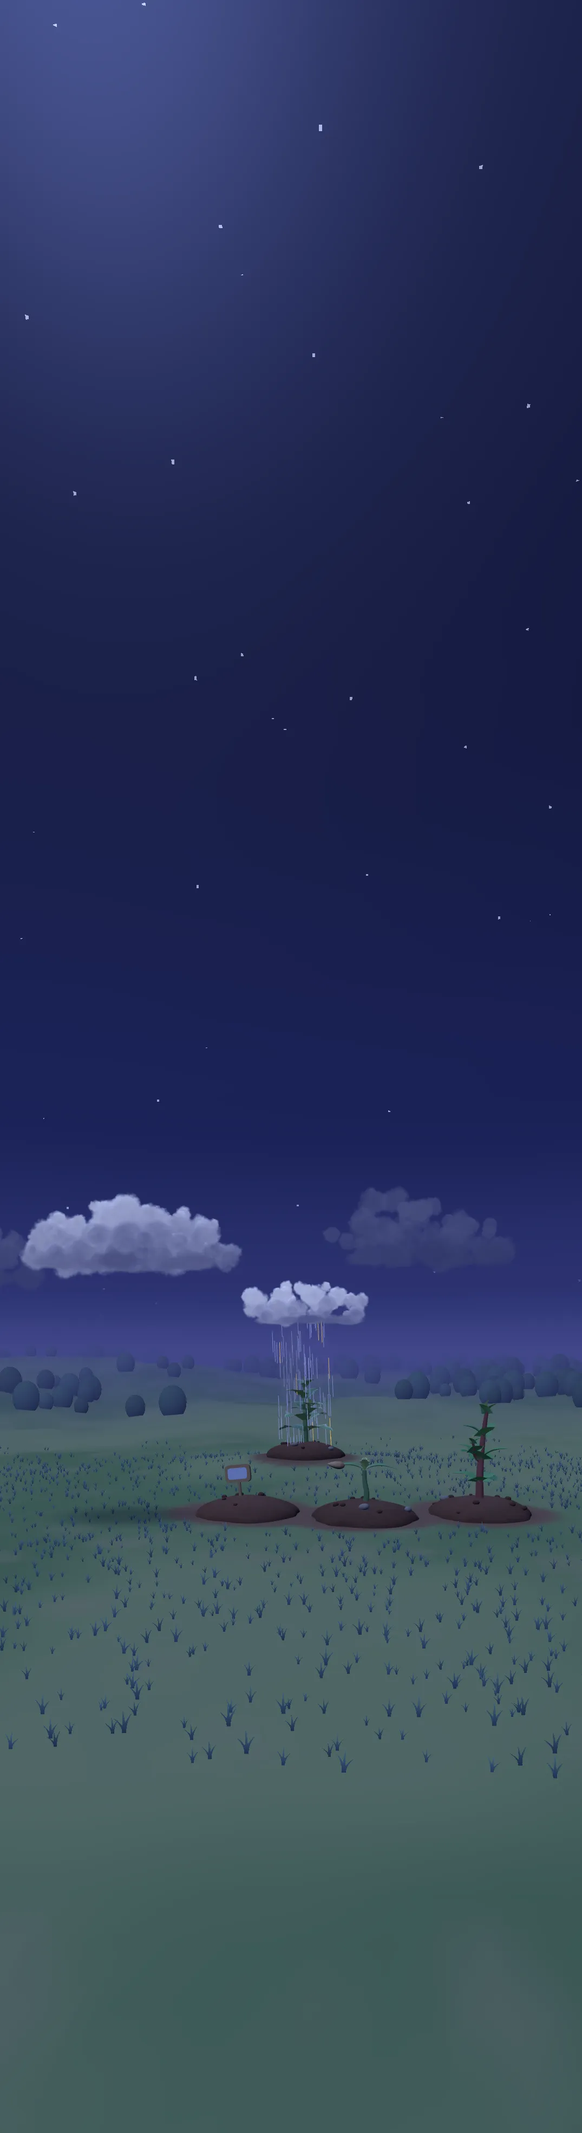
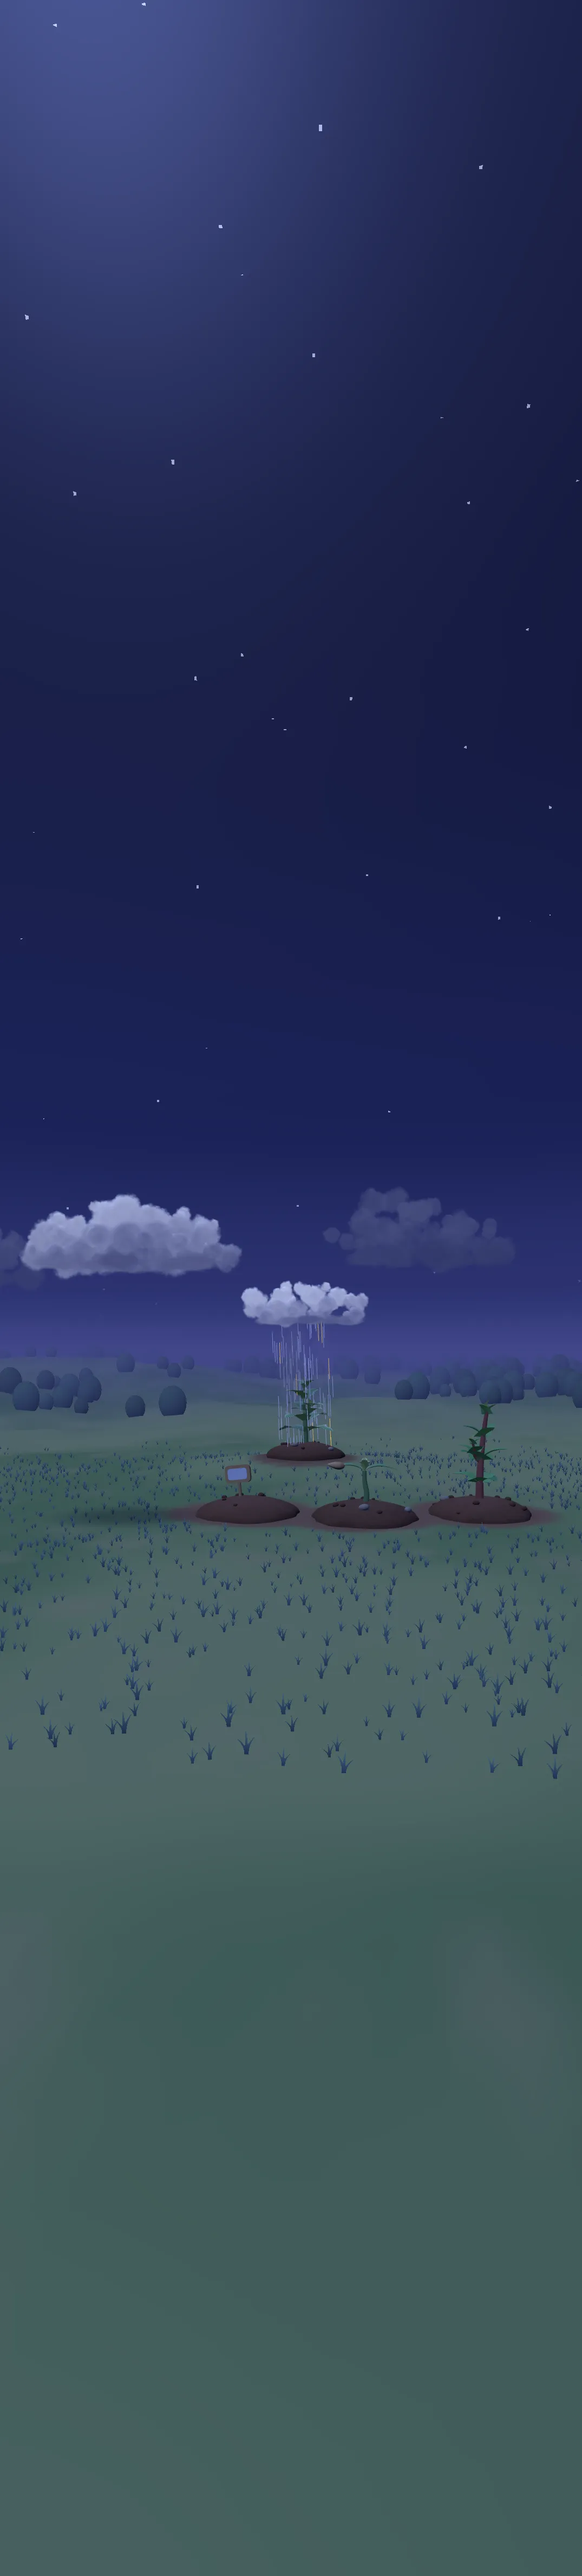
On a phone the garden scrolls with the page, and doesn't flash when the cloud is taken up
Two things seen in a screen recording on an iPhone:

Taking up the cloud, or letting it go, blanked the garden for a frame.
The line under it went from a plot's note (two or three lines) to the
hint (one), or back, which on a phone changes how tall the landing is,
and so the canvas. Sizing a WebGL canvas wipes it, and the scene, when
running, only drew again on the next frame, after the page had been
shown with it blank. Now the canvas is only sized when its size
changes, and is drawn again at once when it is. On a phone the line
under the garden is also kept as tall as a plot's note, so the board
under it doesn't move up and down either.

Scrolling, the garden snapped up or down by 40 to 50 pixels once the
page had stopped. On a touchscreen it sank by a scroll-linked
animation, which started where the window's height put it, and a
phone's browser changes that height as its toolbar comes and goes. Now
on a touchscreen the garden just scrolls with the page (on a desktop it
still sinks, by the camera, as before), and the meadow left for it to
sink into is shorter there.

The stills reach further: the earlier measurements of how far the
backdrop reaches were taken before it was laid out. Measured again
afterwards, a small phone shows 22 units of meadow under the garden
with the still's notes under it, and a tall tablet 22 of sky. `npm run
still -- close` now makes one framing's stills alone.

Claude-Session: https://claude.ai/code/session_014phnNrfKs4tNcruJrNwxfT

diff --git a/src/landing/garden.js b/src/landing/garden.js
@@ -10,8 +10,7 @@
 // the pitch, and the figure is the part of it kept clear for the garden. This file tells the
 // scene where that is. As the page is scrolled the garden doesn't keep up with it: it sinks
 // into the meadow left between it and the line of words under it, the hills behind it sink
-// less, and the sky not at all. On a touchscreen the whole backdrop sinks together instead,
-// so it can keep up with a finger (see scroll(), below).
+// less, and the sky not at all. On a touchscreen it scrolls with the page (see scroll(), below).
 //
 // The scene itself is three.js (./garden-scene.js), so it's fetched only when the landing is
 // on screen. Until it's there, a still of it is (./still/, taken by scripts/still.mjs), scaled
@@ -74,12 +73,6 @@ export function mount(figure){
     // garden can sink as far as that.
     const room = parseFloat(getComputedStyle(figure).rowGap) || 0;
     deep = Math.max(0, room - 8);
-    // How far the page is scrolled when the garden starts and stops sinking, for the stylesheet
-    // to sink it by on a touchscreen (see scroll()).
-    const from = Math.max(0, base.getBoundingClientRect().top + scrollY - innerHeight + 52);
-    figure.style.setProperty('--sink', deep + 'px');
-    figure.style.setProperty('--sink-from', Math.round(from) + 'px');
-    figure.style.setProperty('--sink-to', Math.round(from + deep / SINK) + 'px');
     frame = { x: x0, y: f.top - at.top, w: x1 - x0, h: base.getBoundingClientRect().top - room - f.top, close };
     scene?.setFrame(frame);
     // The still, scaled about the point the camera looks at, and moved to where the scene draws it.
@@ -100,25 +93,25 @@ export function mount(figure){
     if (to !== stood) { stood = to; land.style.setProperty('--stand', to + 'px'); }
     scroll();
   }
-  // Nothing sinks until the hint under the garden is on screen, so on a phone, where the
-  // garden starts below the first screenful, the whole of it is seen first. Its labels go
-  // down with it, so it can be played with all the way. Anyone who's asked for less motion
-  // gets a garden that scrolls away like the rest of the page.
+  // Nothing sinks until the hint under the garden is on screen, so where the garden starts
+  // below the first screenful, the whole of it is seen first. Its labels go down with it, so
+  // it can be played with all the way. Anyone who's asked for less motion gets a garden that
+  // scrolls away like the rest of the page.
   //
   // Here the camera rises to sink it, once each frame is drawn. That's only smooth where the
   // page waits for the frame before it moves. A touchscreen doesn't: the page goes with the
   // finger whether or not the frame is ready. A late frame leaves the garden carried up with
   // the page, and it drops back when the frame comes, so it judders. So on a touchscreen the
-  // camera stays put, and ./landing.css sinks the whole picture with an animation that the
-  // browser runs in step with the scrolling. Where a browser can't do that, the garden
-  // doesn't sink there at all.
+  // garden doesn't sink at all. (An animation the browser runs in step with the scrolling was
+  // tried, and it jumped on a phone: where it starts depends on how tall the window is, and a
+  // phone's browser changes that as its toolbar comes and goes.)
   function scroll(){
     if (!frame || land.hidden) return;      // (on another page there's no garden to sink)
     const to = calm.matches || touch.matches ? 0 : clamp(SINK * clamp(innerHeight - 52 - base.getBoundingClientRect().top, 0, scrollY), 0, deep);
     if (to === sunk) return;
     sunk = to;
     if (scene) scene.setLift(to);
-    // (With no scene there's no camera to rise: the still sinks whole, sky and all, as it does on a touchscreen.)
+    // (With no scene there's no camera to rise: the still sinks whole, sky and all.)
     else { picture.style.translate = to ? `0 ${to}px` : ''; hold(); }
   }
   // The still for the framing, by day or by night. (The one showing stays until the other has come.)
@@ -216,7 +209,6 @@ export function mount(figure){
     else say(i);
   }
   pins.forEach((b, i) => b.addEventListener('click', e => { e.stopPropagation(); pick(i); }));
-  // (Measured from the canvas, not the view it's in: on a touchscreen it's moved down in it as it sinks.)
   const across = e => e.clientX - canvas.getBoundingClientRect().left;
   let dragged = false;
   view.addEventListener('click', e => {

diff --git a/src/landing/landing.css b/src/landing/landing.css
@@ -138,6 +138,8 @@ body{position:relative}
    line under it. Scrolled, the garden sinks into that meadow, toward the line. */
 .rd-garden{position:static;margin:0;container-type:normal;display:flex;flex-direction:column;gap:clamp(56px,12svh,130px)}
 .rd-garden::before{content:'';flex:1 0 300px}
+/* (On a touchscreen the garden doesn't sink, ./garden.js says why, so less meadow will do.) */
+@media (pointer:coarse){.rd-garden{gap:clamp(40px,7svh,80px)}}
 .rd-garden .rd-view{position:absolute;top:0;left:0;right:0;height:var(--sky-h,100svh);aspect-ratio:auto}
 .rd-garden .rd-view :is(canvas,.rd-still){
   -webkit-mask-image:linear-gradient(to bottom,#000 calc(100% - 172px),transparent calc(100% - 14px));-webkit-mask-composite:source-over;
@@ -150,23 +152,6 @@ body{position:relative}
 .rd-garden .rd-still.in{opacity:1}
 .rd-garden.live .rd-still{visibility:hidden;transition:visibility 0s .9s}
 .rd-garden .rd-still img{position:absolute;left:0;top:0;max-width:none;height:auto;display:block}
-/* On a touchscreen the garden sinks by an animation tied to the page's scroll, which the
-   browser runs in step with the scrolling (why, in ./garden.js). The picture and its labels
-   move down together, as far as --sink, while the page is scrolled from --sink-from to
-   --sink-to. The view stays where it is. The fade into the page is on the view, and it clips
-   what moves, so the picture's foot doesn't reach further down the page. */
-@keyframes rd-sink{to{translate:0 var(--sink,0px)}}
-@supports (animation-timeline:scroll()){
-  @media (pointer:coarse) and (prefers-reduced-motion:no-preference){
-    .rd-garden .rd-view{
-      overflow:clip;
-      -webkit-mask-image:linear-gradient(to bottom,#000 calc(100% - 172px),transparent calc(100% - 14px));
-      mask-image:linear-gradient(to bottom,#000 calc(100% - 172px),transparent calc(100% - 14px))
-    }
-    .rd-garden .rd-view :is(canvas,.rd-still){-webkit-mask-image:none;mask-image:none}
-    .rd-garden .rd-view>:is(canvas,.rd-still,.rd-pins){animation:rd-sink linear both;animation-timeline:scroll(root);animation-range:var(--sink-from,0px) var(--sink-to,0px)}
-  }
-}
 /* Words over the sky and the meadow: the grey the rest of the site writes its asides in is
    too faint there, so the bar and the pitch write theirs in most of the ink. */
 body:has(#landing:not([hidden])>.rd-garden) :is(.rd-bar,.rd-pitch){--muted:color-mix(in srgb,var(--ink) 80%,transparent)}
@@ -226,11 +211,14 @@ body:has(#landing:not([hidden])>.rd-garden) #circle .rs-head{--rs-muted:color-mi
   .rd-landing:has(>.rd-garden) .rd-pitch{translate:none}
   .rd-garden{margin:0}
   .rd-garden::before{flex-basis:calc(64vw + 110px)}
-  /* (here the line can grow, and push the board down: nothing is beside it to keep level with) */
-  .rd-garden .rd-base{min-height:36px;margin:0;padding:0 44px 0 0;justify-content:flex-start}
+  /* Here the line is as tall as what's said about a plot (two lines of it, or three on a
+     small phone), so the board under it stays where it is as the cloud is taken up and let
+     go. Only "Three done" can be taller, and push the board down. */
+  .rd-garden .rd-base{min-height:62px;margin:0;padding:0 44px 0 0;justify-content:flex-start}
   .rd-garden .rd-notes{flex:1}
   .rd-garden.flat .rd-notes{grid-template-columns:1fr}
 }
+@media (max-width:429px){.rd-garden .rd-base{min-height:101px}}
 @media (prefers-reduced-motion:reduce){
   .rd-view canvas,.rd-still,.rd-garden .rd-still,.rd-garden.live .rd-still,.rd-pins,.rd-peek,.rd-peek.in,.rd-peek-arrow{transition:none}
   .rd-peek{translate:none}

diff --git a/src/landing/garden-scene.js b/src/landing/garden-scene.js
@@ -482,9 +482,14 @@ export function createGarden(canvas, { dark = false, frame: into = null, sky: sk
   function resize(){
     const w = canvas.clientWidth, h = canvas.clientHeight;
     if (!w || !h) return;
+    // Sizing the canvas wipes what's drawn on it, so it's only done when the size changes
+    // (a new frame for the garden alone doesn't), and the picture is drawn again at once, below.
+    const ratio = Math.min(window.devicePixelRatio || 1, Math.max(1, Math.min(2, Math.sqrt(MOST / (w * h)))));
+    if (w !== width || h !== height_ || ratio !== renderer.getPixelRatio()) {
+      renderer.setPixelRatio(ratio);
+      renderer.setSize(w, h, false);
+    }
     width = w; height_ = h;
-    renderer.setPixelRatio(Math.min(window.devicePixelRatio || 1, Math.max(1, Math.min(2, Math.sqrt(MOST / (w * h))))));
-    renderer.setSize(w, h, false);
     // The garden is drawn as big as fits its frame (./fit.js). The lens is whatever gives
     // that, and the middle of the picture is moved to where the frame is, so the rest of the
     // canvas is the same sky and the same meadow, carried on.
@@ -504,7 +509,9 @@ export function createGarden(canvas, { dark = false, frame: into = null, sky: sk
       uSpan.value = clamp(Math.hypot(v.midY, v.lens) / Math.max(v.midY, 1), 1.05, 2.3);
     }
     uScale.value = renderer.domElement.height / (2 * Math.tan(camera.fov * Math.PI / 360));
-    still();
+    // Running, the next frame would come too late: this is called once the frame has been
+    // drawn, so the page would be shown with the canvas blank in between. So it's drawn now.
+    if (running) draw(0, false); else still();
   }
   // Everything as it is on arriving: the plots as they were planted, your cloud full and
   // waiting, and the friend's a little way into its rain.

diff --git a/src/landing/still/still.js b/src/landing/still/still.js
@@ -6,18 +6,18 @@
 export const STILLS = {
   "wide": {
     "w": 2448,
-    "h": 2592,
+    "h": 2736,
     "unit": 72,
     "midX": 1656,
-    "midY": 1584,
-    "plots": [ 1676.8, 1692.2, 1590.6, 1782.2, 1767.2, 1789.8, 1937.7, 1783.1 ],
-    "cloud": [ 1429.4, 1382.5, 228, 136 ],
-    "friend": [ 1675.7, 1438.3 ],
+    "midY": 1728,
+    "plots": [ 1676.8, 1836.2, 1590.6, 1926.2, 1767.2, 1933.8, 1937.7, 1927.1 ],
+    "cloud": [ 1429.4, 1526.5, 228, 136 ],
+    "friend": [ 1675.7, 1582.3 ],
     "left": 0.66
   },
   "close": {
     "w": 1075,
-    "h": 3936,
+    "h": 4752,
     "unit": 96,
     "midX": 537.6,
     "midY": 2496,
